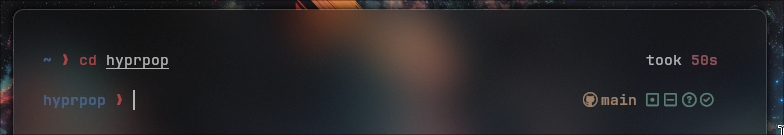
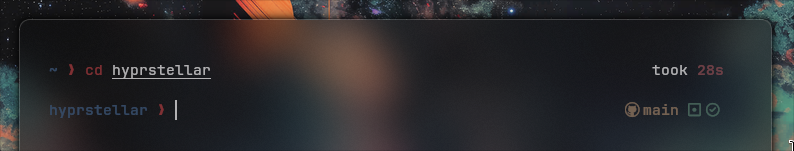
update README and assets

diff --git a/README.md b/README.md
@@ -6,9 +6,9 @@ a cozy dotfiles for your cozy workflow
 ![image](assets/header.png)
 
 <p align="center">
-  <img src="https://img.shields.io/github/last-commit/xeji01/hyprpop">
-  <img src="https://img.shields.io/github/stars/xeji01/hyprpop?style=flat">
-  <img src="https://img.shields.io/github/repo-size/xeji01/hyprpop">
+  <img src="https://img.shields.io/github/last-commit/xeji01/hyprstellar">
+  <img src="https://img.shields.io/github/stars/xeji01/hyprstellar?style=flat">
+  <img src="https://img.shields.io/github/repo-size/xeji01/hyprstellar">
 </p>
 
 </div>
@@ -36,13 +36,16 @@ Feel free to give this repo a star.
 | Shell              | zsh                                                 |
 | ZSH Prompt         | [Starship](https://github.com/starship/starship)    |
 
-### UI
+### Input & UI
 
-| Type            | Name                                                                    |
-| --------------- | ----------------------------------------------------------------------- |
-| Main Font       | [JetBrainsMono Nerd Font](https://www.nerdfonts.com/font-downloads)     |
-| Emoji Font      | [Noto Emoji](https://github.com/googlefonts/noto-emoji)                 |
-| Colorscheme     | [pywal16](https://github.com/eylles/pywal16)                            |
+| Type                   | Name                                                                                               |
+| ---------------------- | -------------------------------------------------------------------------------------------------- |
+| Main Font              | [JetBrainsMono Nerd Font](https://www.nerdfonts.com/font-downloads)                                |
+| Asian Font Collections | [Adobe Source Han Sans](https://archlinux.org/packages/extra/any/adobe-source-han-sans-otc-fonts/) |
+| Emoji Font             | [Noto Emoji](https://github.com/googlefonts/noto-emoji)                                            |
+| Emoji Selector         | [Rofi Emoji](https://github.com/Mange/rofi-emoji)                                                  | 
+| Clipboard Manager      | [Cliphist](https://github.com/sentriz/cliphist)                                                    |
+| Colorscheme            | [pywal16](https://github.com/eylles/pywal16)                                                       |
 
 ### Other
 
@@ -51,9 +54,8 @@ Feel free to give this repo a star.
 | Browser                            | [Librewolf](https://librewolf.net/)                                              |
 | Browser CSS                        | [Fuji Fox](https://github.com/xeji01/fujifox) on my repo ⭐                      |
 | Text Editor                        | [Neovim](https://neovim.io/)                                                     |
-| Terminal File Manager              | [Yazi](https://github.com/sxyazi/yazi)                                           |
-| Wallpaper Backend                  | [Hyprpaper](https://github.com/hyprwm/hyprpaper)                                 |
-| Wallpaper Daemon                   | [Waypaper](https://github.com/anufrievroman/waypaper)                            |
+| Terminal File Manager              | [LF File Manager](https://github.com/gokcehan/lf)                                |
+| Wallpaper Backend                  | [SWWW](https://github.com/LGFae/swww)                                            |
 | Better ls                          | [Lsd](https://github.com/lsd-rs/lsd)                                             |
 | Better cd                          | [Zoxide](https://github.com/ajeetdsouza/zoxide)                                  |
 | AUR Helper                         | [Paru](https://github.com/Morganamilo/paru)                                      |
@@ -65,6 +67,7 @@ Feel free to give this repo a star.
 | Idle Daemon                        | [Hypridle](https://github.com/hyprwm/hypridle)                                   |
 | Power Menu App                     | [Wlogout](https://github.com/ArtsyMacaw/wlogout)                                 |
 | WiFi Menu                          | [rofi-wifi-menu](https://github.com/ericmurphyxyz/rofi-wifi-menu)                |
+| Screen Recorder                    | [wf-recorder](https://github.com/ammen99/wf-recorder)                            |
 
 ### Pywal themes for applications
 
@@ -80,18 +83,18 @@ Check out my wallpapers [repository](https://github.com/xeji01/wallpaper)
 
 ### Terminal
 
-| **Starship**                                  |
+| Starship                                      |
 | --------------------------------------------- |
 | ![image](assets/starship.png)                 |
 
-| **Yazi**                                      |
+| LF File Manager                               |
 | --------------------------------------------- |
 | ![image](assets/yazi.png)                     |
 | ![image](assets/yazi-maxprev.png)             |
 
-| **Fastfetch**                                 |
+| Fastfetch                                     |
 | --------------------------------------------- |
-| ![image](assets/fastfetch.png)                |
+| ![image](assets/fastfetch2.png)               |
 
 ### Waybar
 
@@ -110,24 +113,29 @@ Check out my wallpapers [repository](https://github.com/xeji01/wallpaper)
 ![image](assets/librewolf.gif)
 
 ### Rofi
+| Dmenu, Emoji, Wifi                                   |
+| ---------------------------------------------------- |
+| ![image](assets/rofi.png)                            |
 
-![image](assets/rofi.jpg)
+| Clipboard                                            |
+| ---------------------------------------------------- |
+| ![image](assets/rofi-clipboard.png)                  |
 
-### Waypaper
+### Wallpaper Selector
 
 ![image](assets/waypaper.png)
 
 ### Neovim
 
-| **Dashboard**                                        |
+| Dashboard                                            |
 | ---------------------------------------------------- |
 | ![image](assets/nvim-alpha.png)                      |
 
-| **Layout**                                           |
+| Layout                                               |
 | ---------------------------------------------------- |
 | ![image](assets/nvim-layout.png)                     |
 
-| **Telescope**                                        |
+| Telescope                                            |
 | ---------------------------------------------------- |
 | ![image](assets/nvim-telescope.png)                  |
 
@@ -141,9 +149,9 @@ Check out my wallpapers [repository](https://github.com/xeji01/wallpaper)
 
 ### Sway Notification Center
 
-| **Notification Center**                              |
+| Notification Center                                  |
 | ---------------------------------------------------- |
-| ![image](assets/swaync.png) |
+| ![image](assets/swaync.png)                          |
 
 ## Hotkeys
 
@@ -153,32 +161,34 @@ Check out my wallpapers [repository](https://github.com/xeji01/wallpaper)
 > - On most other keyboards, `Super` refers to the `Windows` key.
 
 
-| Key                                           | Command                             |
-| --------------------------------------------- | ----------------------------------- |
-| `Super` + `Enter`                             | Launch Kitty                        |
-| `Super` + `B`                                 | Launch Librewolf                    |
-| `Super` + `E`                                 | Launch Yazi                         |
-| `Super` + `L`                                 | Lockscreen                          |
-| `Super` + `Q`                                 | Kill active window                  |
-| `Super` + `W`                                 | Wifi Menu via Rofi                  |
-| `Super` + `Shift` + `Enter`                   | Floating Kitty                      |
-| `Super` + `Shift` + `B`                       | Launch Waypaper                     |
-| `Super` + `Shift` + `C`                       | Center window                       |
-| `Super` + `Shift` + `E`                       | Exit Hyprland                       |
-| `Super` + `Shift` + `F`                       | Toggle fullscreen                   |
-| `Super` + `Shift` + `O`                       | Restart Waybar                      |
-| `Super` + `Shift` + `R`                       | Restart Hyprland                    |
-| `PrntScrn`                                    | Take screenshot of the entire screen|
-| `Ctrl` + `PrntScrn`                           | Take screenshot of selected area    |
-| `Ctrl` + `Shift` + `PrntScrn`                 | Take screenshot of selected window  |
-| `Ctrl` + `Super` + `Arrow down/up/left/right` | Resize window                       |
+| Key                                           | Command                              |
+| --------------------------------------------- | ------------------------------------ |
+| `Super` + `Enter`                             | Launch Kitty                         |
+| `Super` + `B`                                 | Launch Librewolf                     |
+| `Super` + `E`                                 | Launch LF File Manager               |
+| `Super` + `L`                                 | Lockscreen                           |
+| `Super` + `Q`                                 | Kill active window                   |
+| `Super` + `W`                                 | Wifi Menu via Rofi                   |
+| `Super` + `Shift` + `Enter`                   | Floating Kitty                       |
+| `Super` + `Shift` + `B`                       | Launch wallpaper selector            |
+| `Super` + `Shift` + `C`                       | Center window                        |
+| `Super` + `Shift` + `E`                       | Exit Hyprland                        |
+| `Super` + `Shift` + `F`                       | Toggle fullscreen                    |
+| `Super` + `Shift` + `L`                       | Launch power menu                    |
+| `Super` + `Shift` + `O`                       | Restart Waybar                       |
+| `Super` + `Shift` + `R`                       | Restart Hyprland                     |
+| `PrntScrn`                                    | Take screenshot of the entire screen |
+| `Ctrl` + `PrntScrn`                           | Take screenshot of selected area     |
+| `Ctrl` + `Shift` + `PrntScrn`                 | Take screenshot of selected window   | 
+| `Ctrl` + `Super` + `Arrow down/up/left/right` | Resize window                        |
 
 Other hotkeys can be found here `~/.config/hypr/configs/binds.conf`
 
 ## TODO
 - [ ] bluetooth daemon
-- [ ] volume & brightness notification script
-- [x] make a custom hyprlock
+- [x] switch from yazi to lf
+- [x] volume & brightness notification script
+- [x] adding avatar to hyprlock
 - [x] make a custom waybar
 - [x] make a custom rofi
 - [x] make a minimal Librewolf CSS
